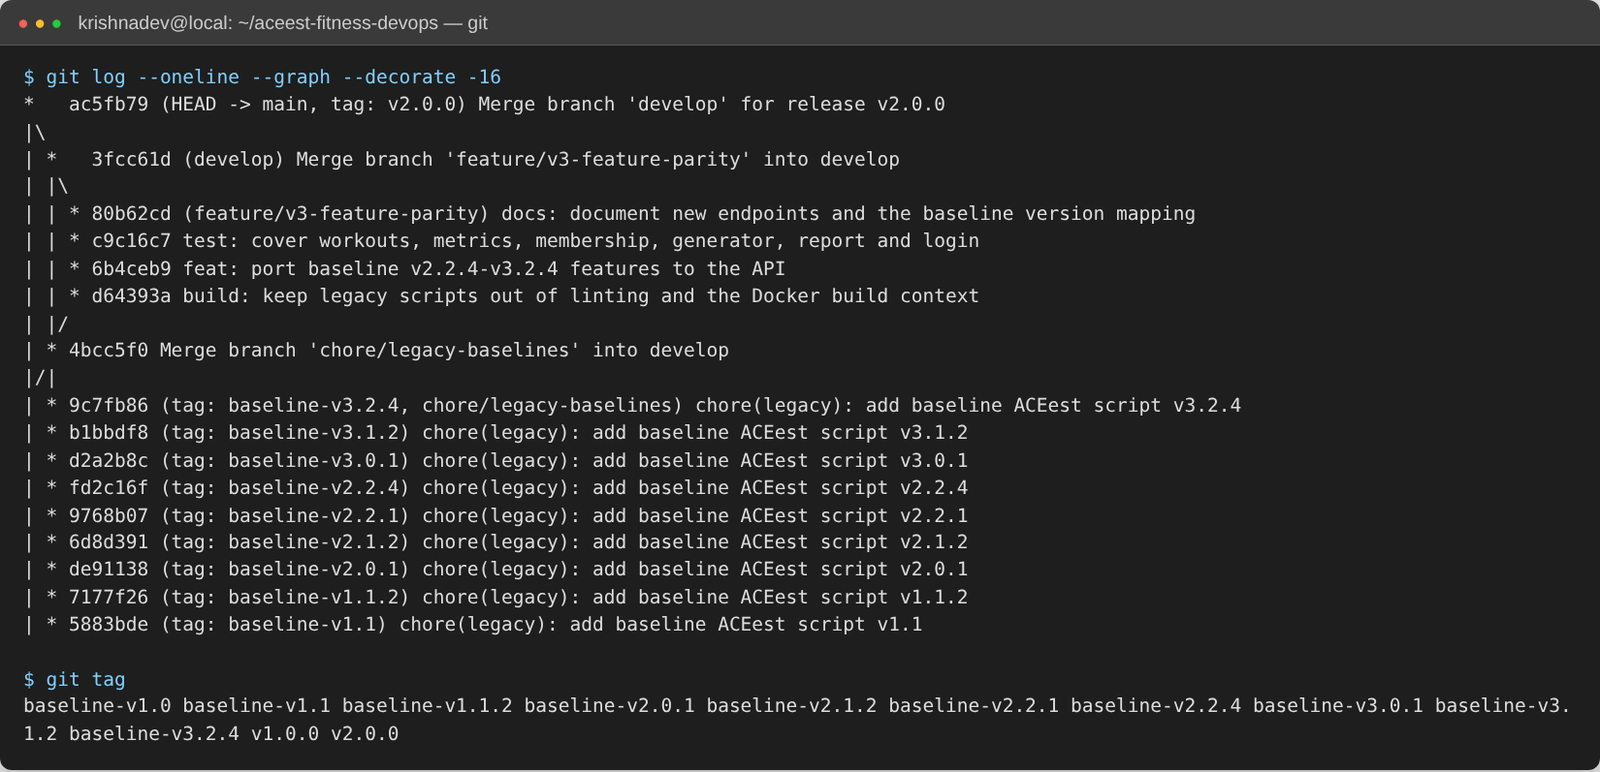
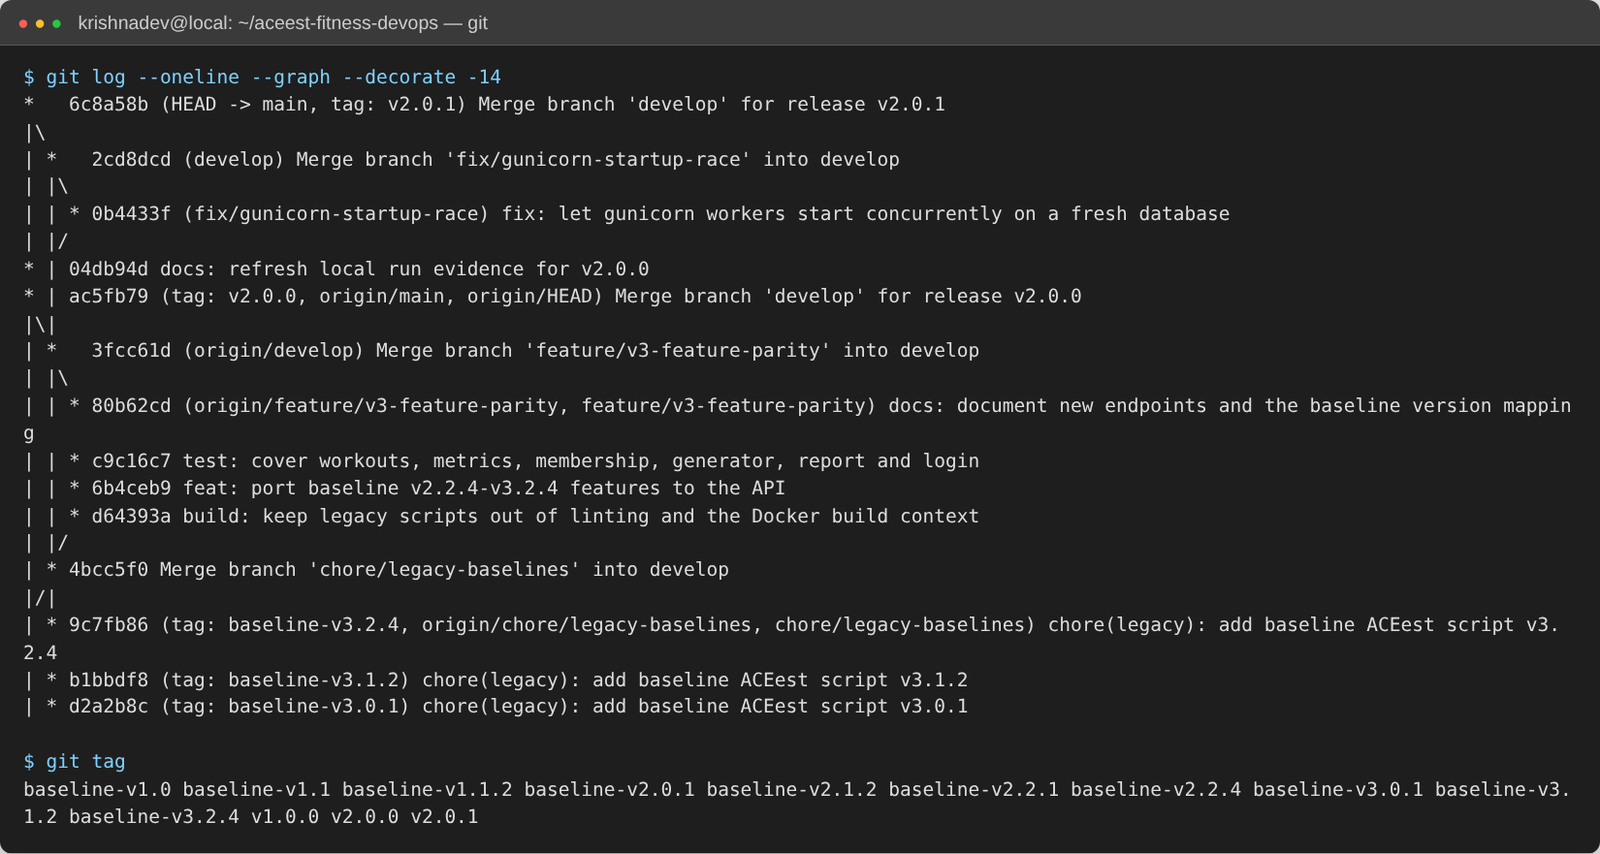
docs: refresh local run evidence for v2.0.1

Changed region(s): [[0.0, 0.0, 1.0, 0.8394], [0.0, 0.8705, 1.0, 0.9637], [0.0, 0.9948, 1.0, 1.0]]

diff --git a/docs/evidence/home.html b/docs/evidence/home.html
@@ -10,7 +10,7 @@
          margin-bottom:16px}
  h2{color:#d4af37;margin-top:4px} code{color:#d4af37}
 </style></head><body>
-<header><h1>ACEest Functional Fitness</h1><small>v2.0.0</small></header>
+<header><h1>ACEest Functional Fitness</h1><small>v2.0.1</small></header>
 <main>
 
 <section>

diff --git a/README.md b/README.md
@@ -207,7 +207,7 @@ Compile check and flake8 — no issues:
 
 ![Compile and lint](docs/screenshots/07-local-compile-and-lint.png)
 
-Pytest — **87 passed, 99 % coverage of `app.py`**:
+Pytest — **88 passed, 99 % coverage of `app.py`**:
 
 ![Pytest](docs/screenshots/08-local-pytest-passed.png)
 
